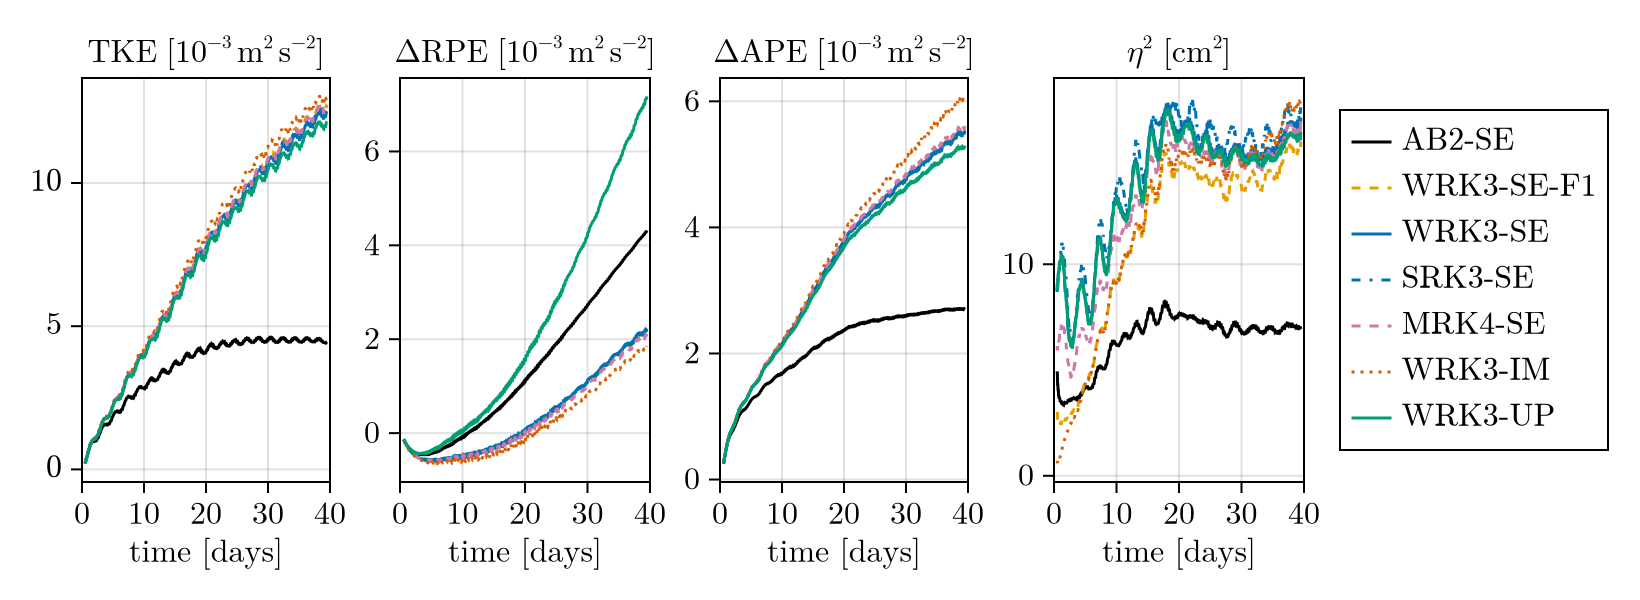
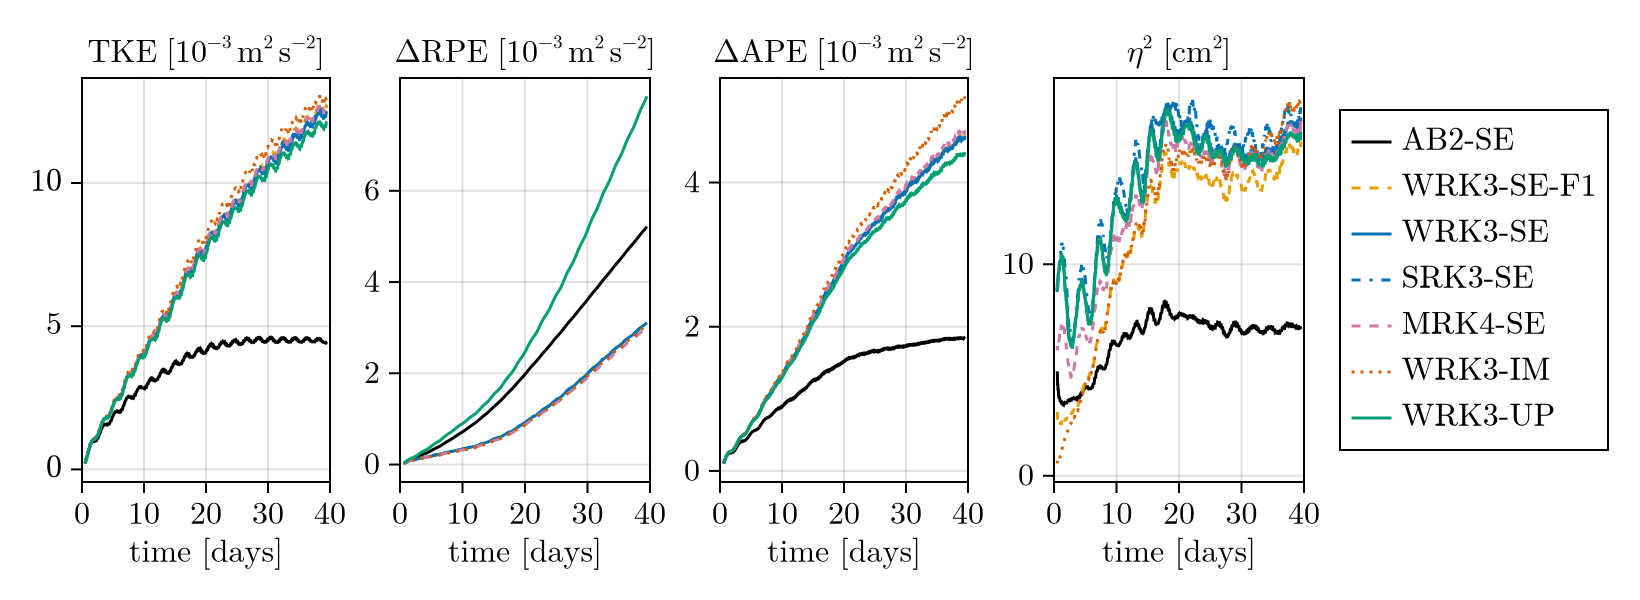
correct the internal tide

diff --git a/docs/src/experiments/internal_tide.md b/docs/src/experiments/internal_tide.md
@@ -197,7 +197,7 @@ u = case[:u][end] / case[:VFCC][end]
 ## Results
 
 In the manuscript, AB2-SE is about twice as diffusive as WRK3-SE over the depth, retains less kinetic energy, and
-increases the reference potential energy twice as much as the Runge-Kutta cases, while WRK3-SE-SM05, SRK3-SE and
+increases the reference potential energy about 1.7 times as much as the Runge-Kutta cases, while WRK3-SE-SM05, SRK3-SE and
 MRK4-SE are indistinguishable from WRK3-SE. Under timestep refinement the Runge-Kutta solutions do not change, and
 AB2-SE approaches them without matching them at `Δt / 8`. The [manuscript figures](../generated/internal_tide_figures.md)
 page reproduces these comparisons from the 15 published files.
